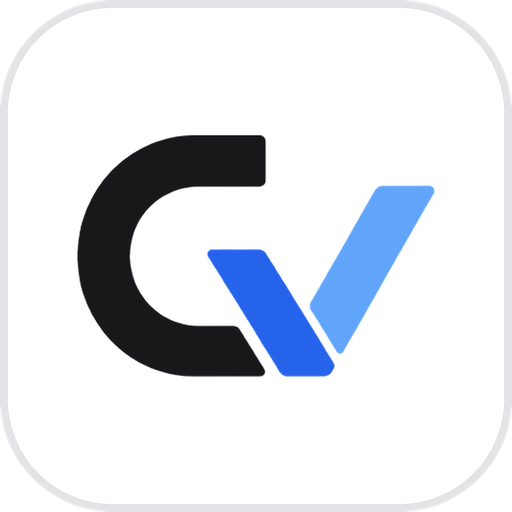
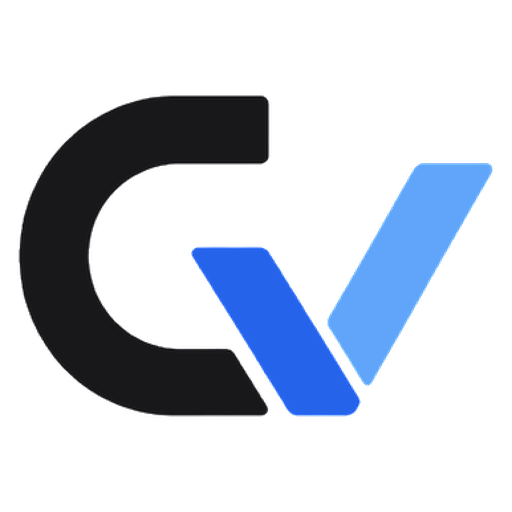
파비콘 배경 제거 및 네이버 사이트 소유확인 파일 추가

diff --git a/public/naver389493b296a23e6418b1307f17334acc.html b/public/naver389493b296a23e6418b1307f17334acc.html
@@ -1,0 +1,1 @@
+naver-site-verification: naver389493b296a23e6418b1307f17334acc.html
